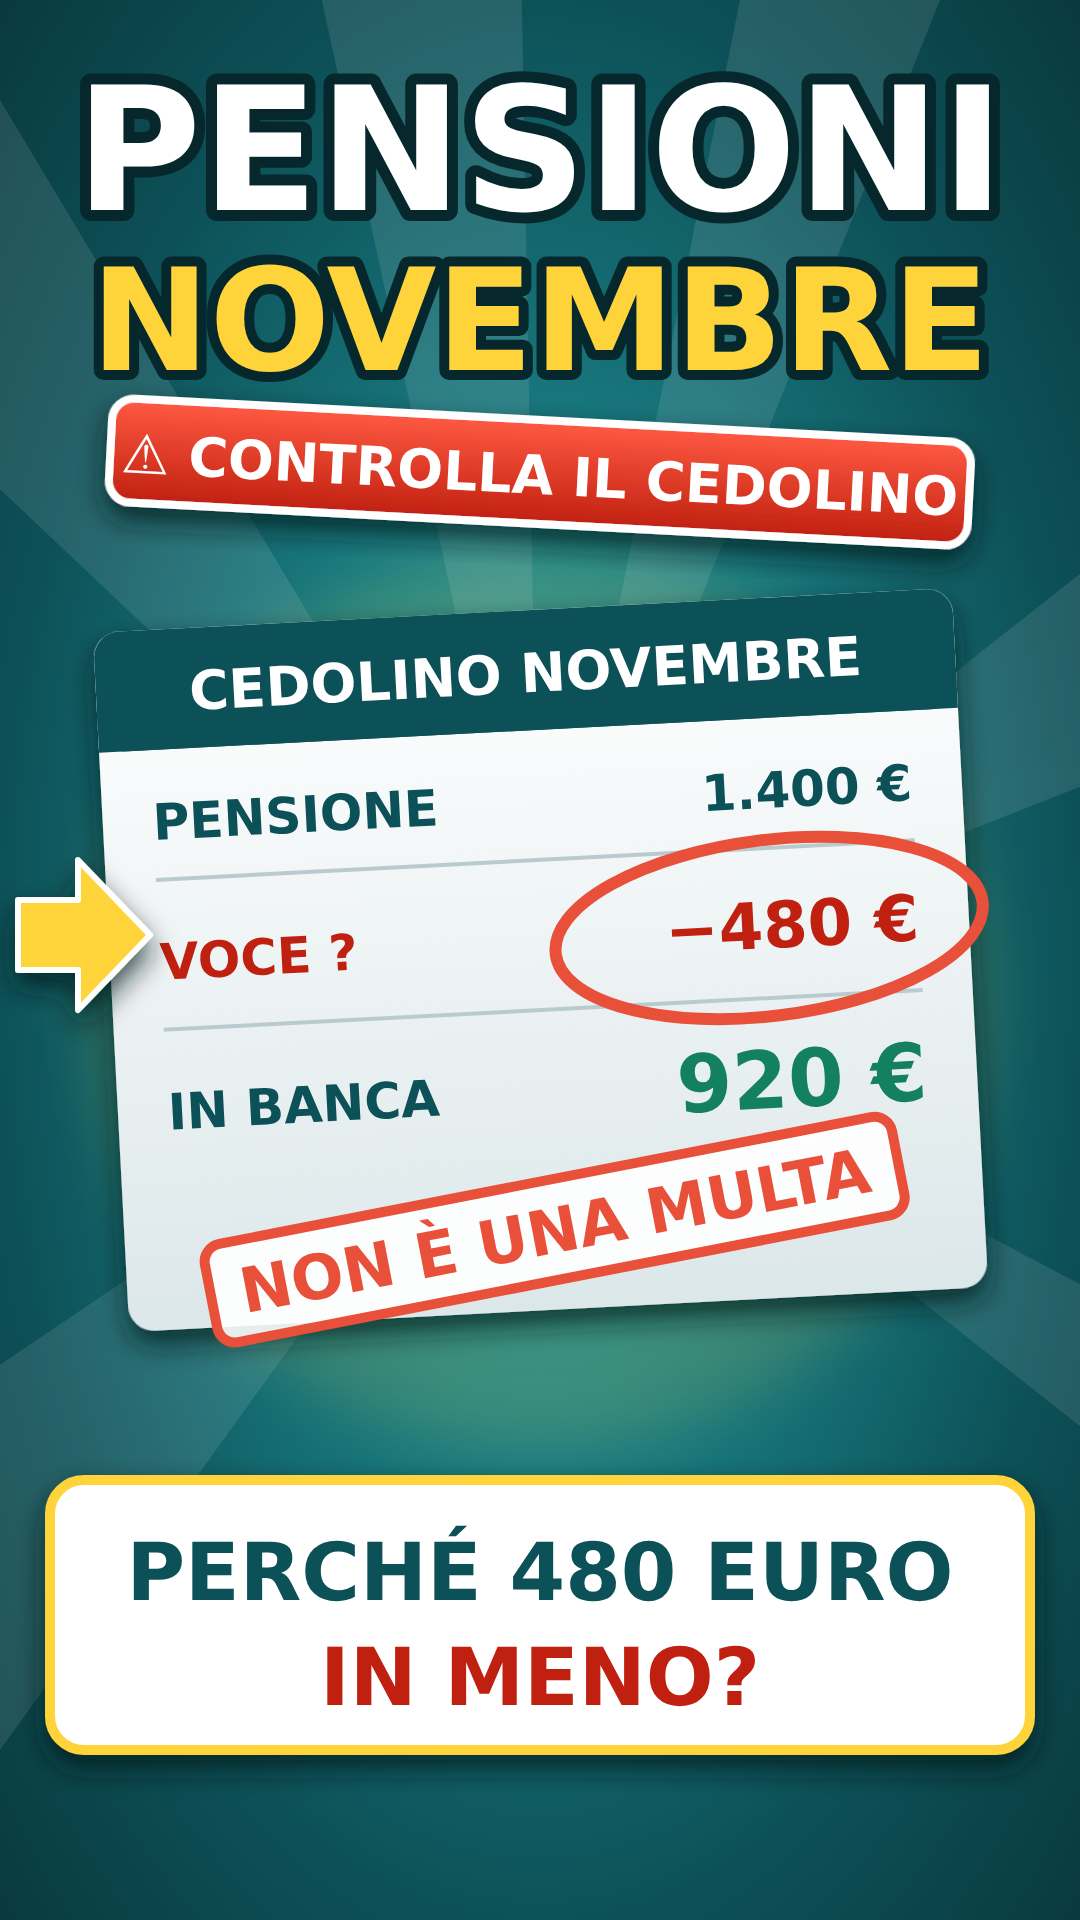
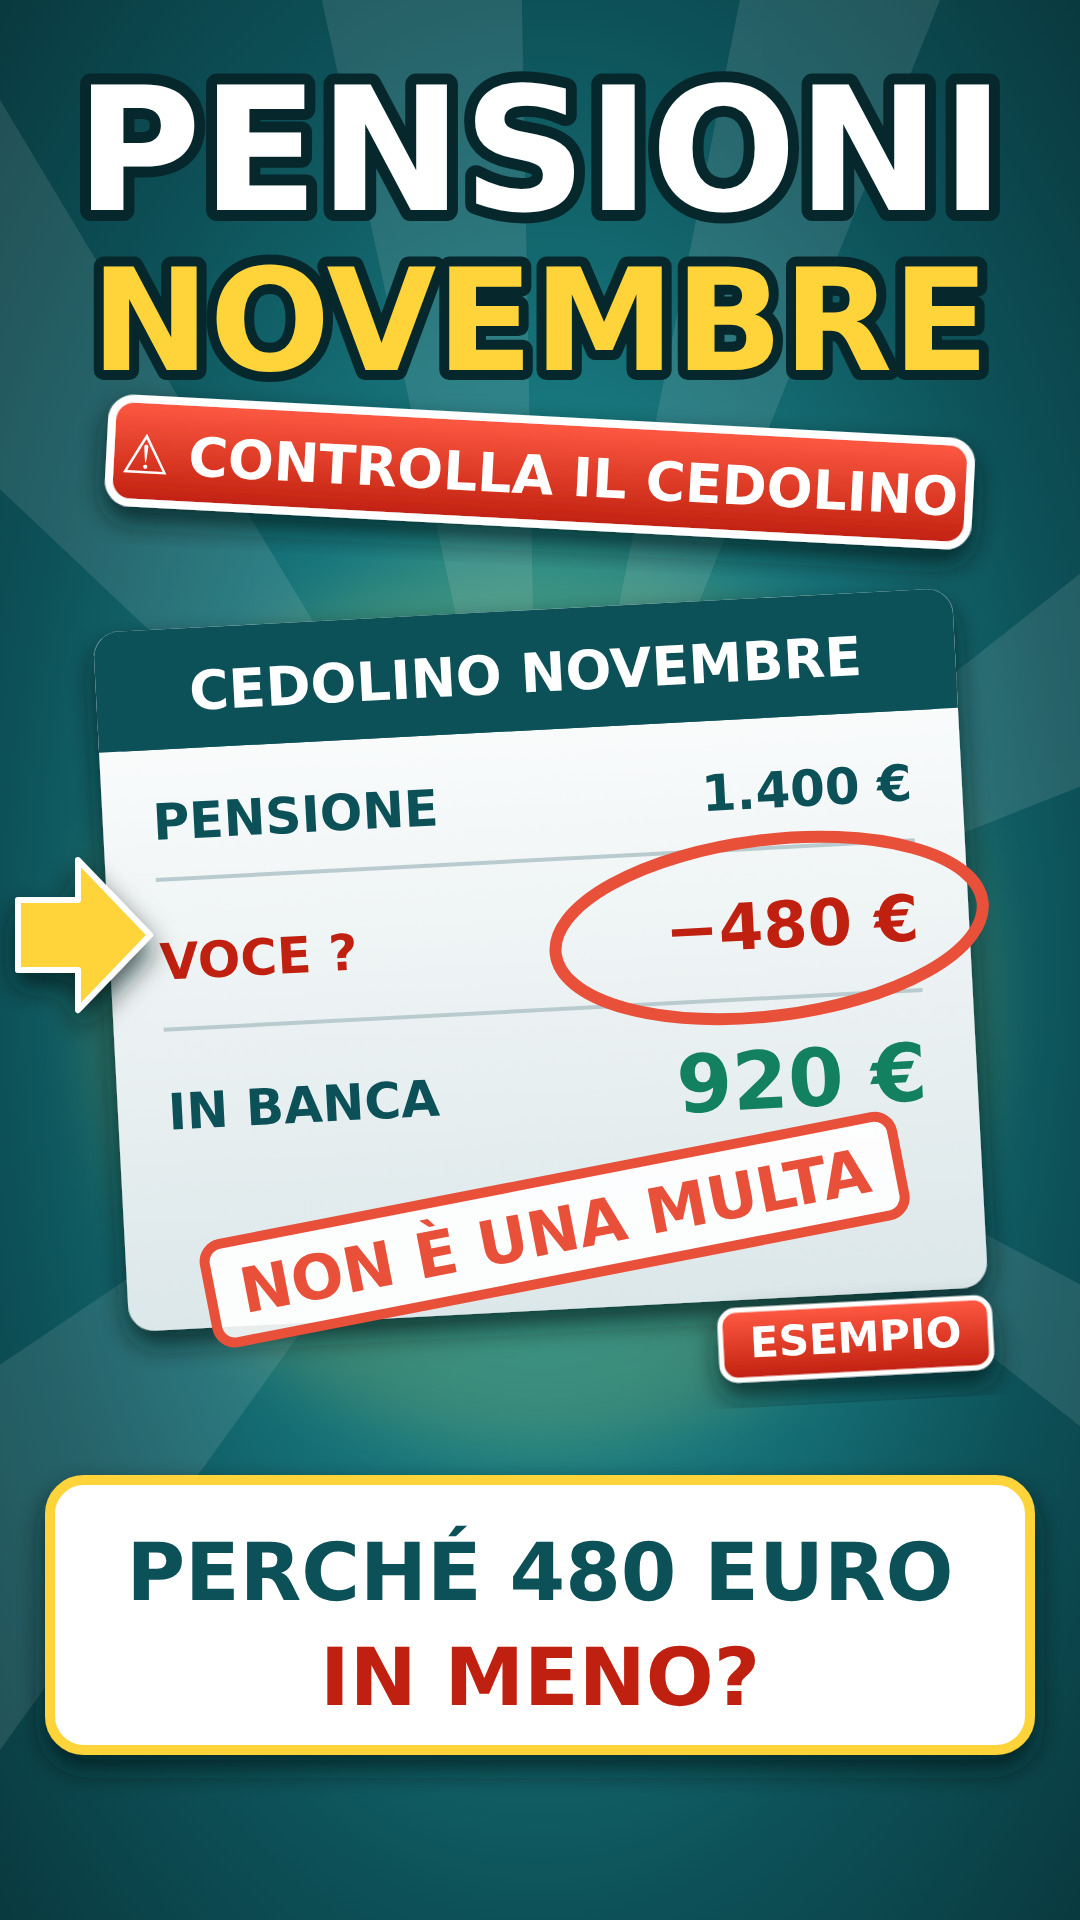
Short 8: 480 euro indicato come esempio (descrizione e miniatura)
Claude-Session: https://claude.ai/code/session_013iotiSH6JdYMiG3rbHB6tk

Changed region(s): [[0.6417, 0.6562, 0.9472, 0.75]]

diff --git a/conti_in_pensione/19-short-8-teaser-video-lungo-6/miniatura/miniatura-short8.html b/conti_in_pensione/19-short-8-teaser-video-lungo-6/miniatura/miniatura-short8.html
@@ -37,6 +37,8 @@
 </g>
 <!-- freccia gialla verso la voce -->
 <path d="M18 900 H78 V860 L150 935 L78 1010 V970 H18Z" fill="#FFD43B" stroke="#fff" stroke-width="6" stroke-linejoin="round" filter="url(#sh)"/>
+<!-- etichetta esempio -->
+<g transform="rotate(-3 540 950)"><g filter="url(#sh)"><rect x="700" y="1320" width="270" height="70" rx="16" fill="url(#rb)" stroke="#fff" stroke-width="5"/></g><text x="835" y="1368" class="t" font-size="42" fill="#fff" text-anchor="middle">ESEMPIO</text></g>
 <!-- striscia bianca bordo giallo -->
 <g filter="url(#sh)"><rect x="50" y="1480" width="980" height="270" rx="34" fill="#fff"/><rect x="50" y="1480" width="980" height="270" rx="34" fill="none" stroke="#FFD43B" stroke-width="10"/></g>
 <text x="540" y="1600" class="t" font-size="80" fill="#0D5158" text-anchor="middle">PERCHÉ 480 EURO</text>
